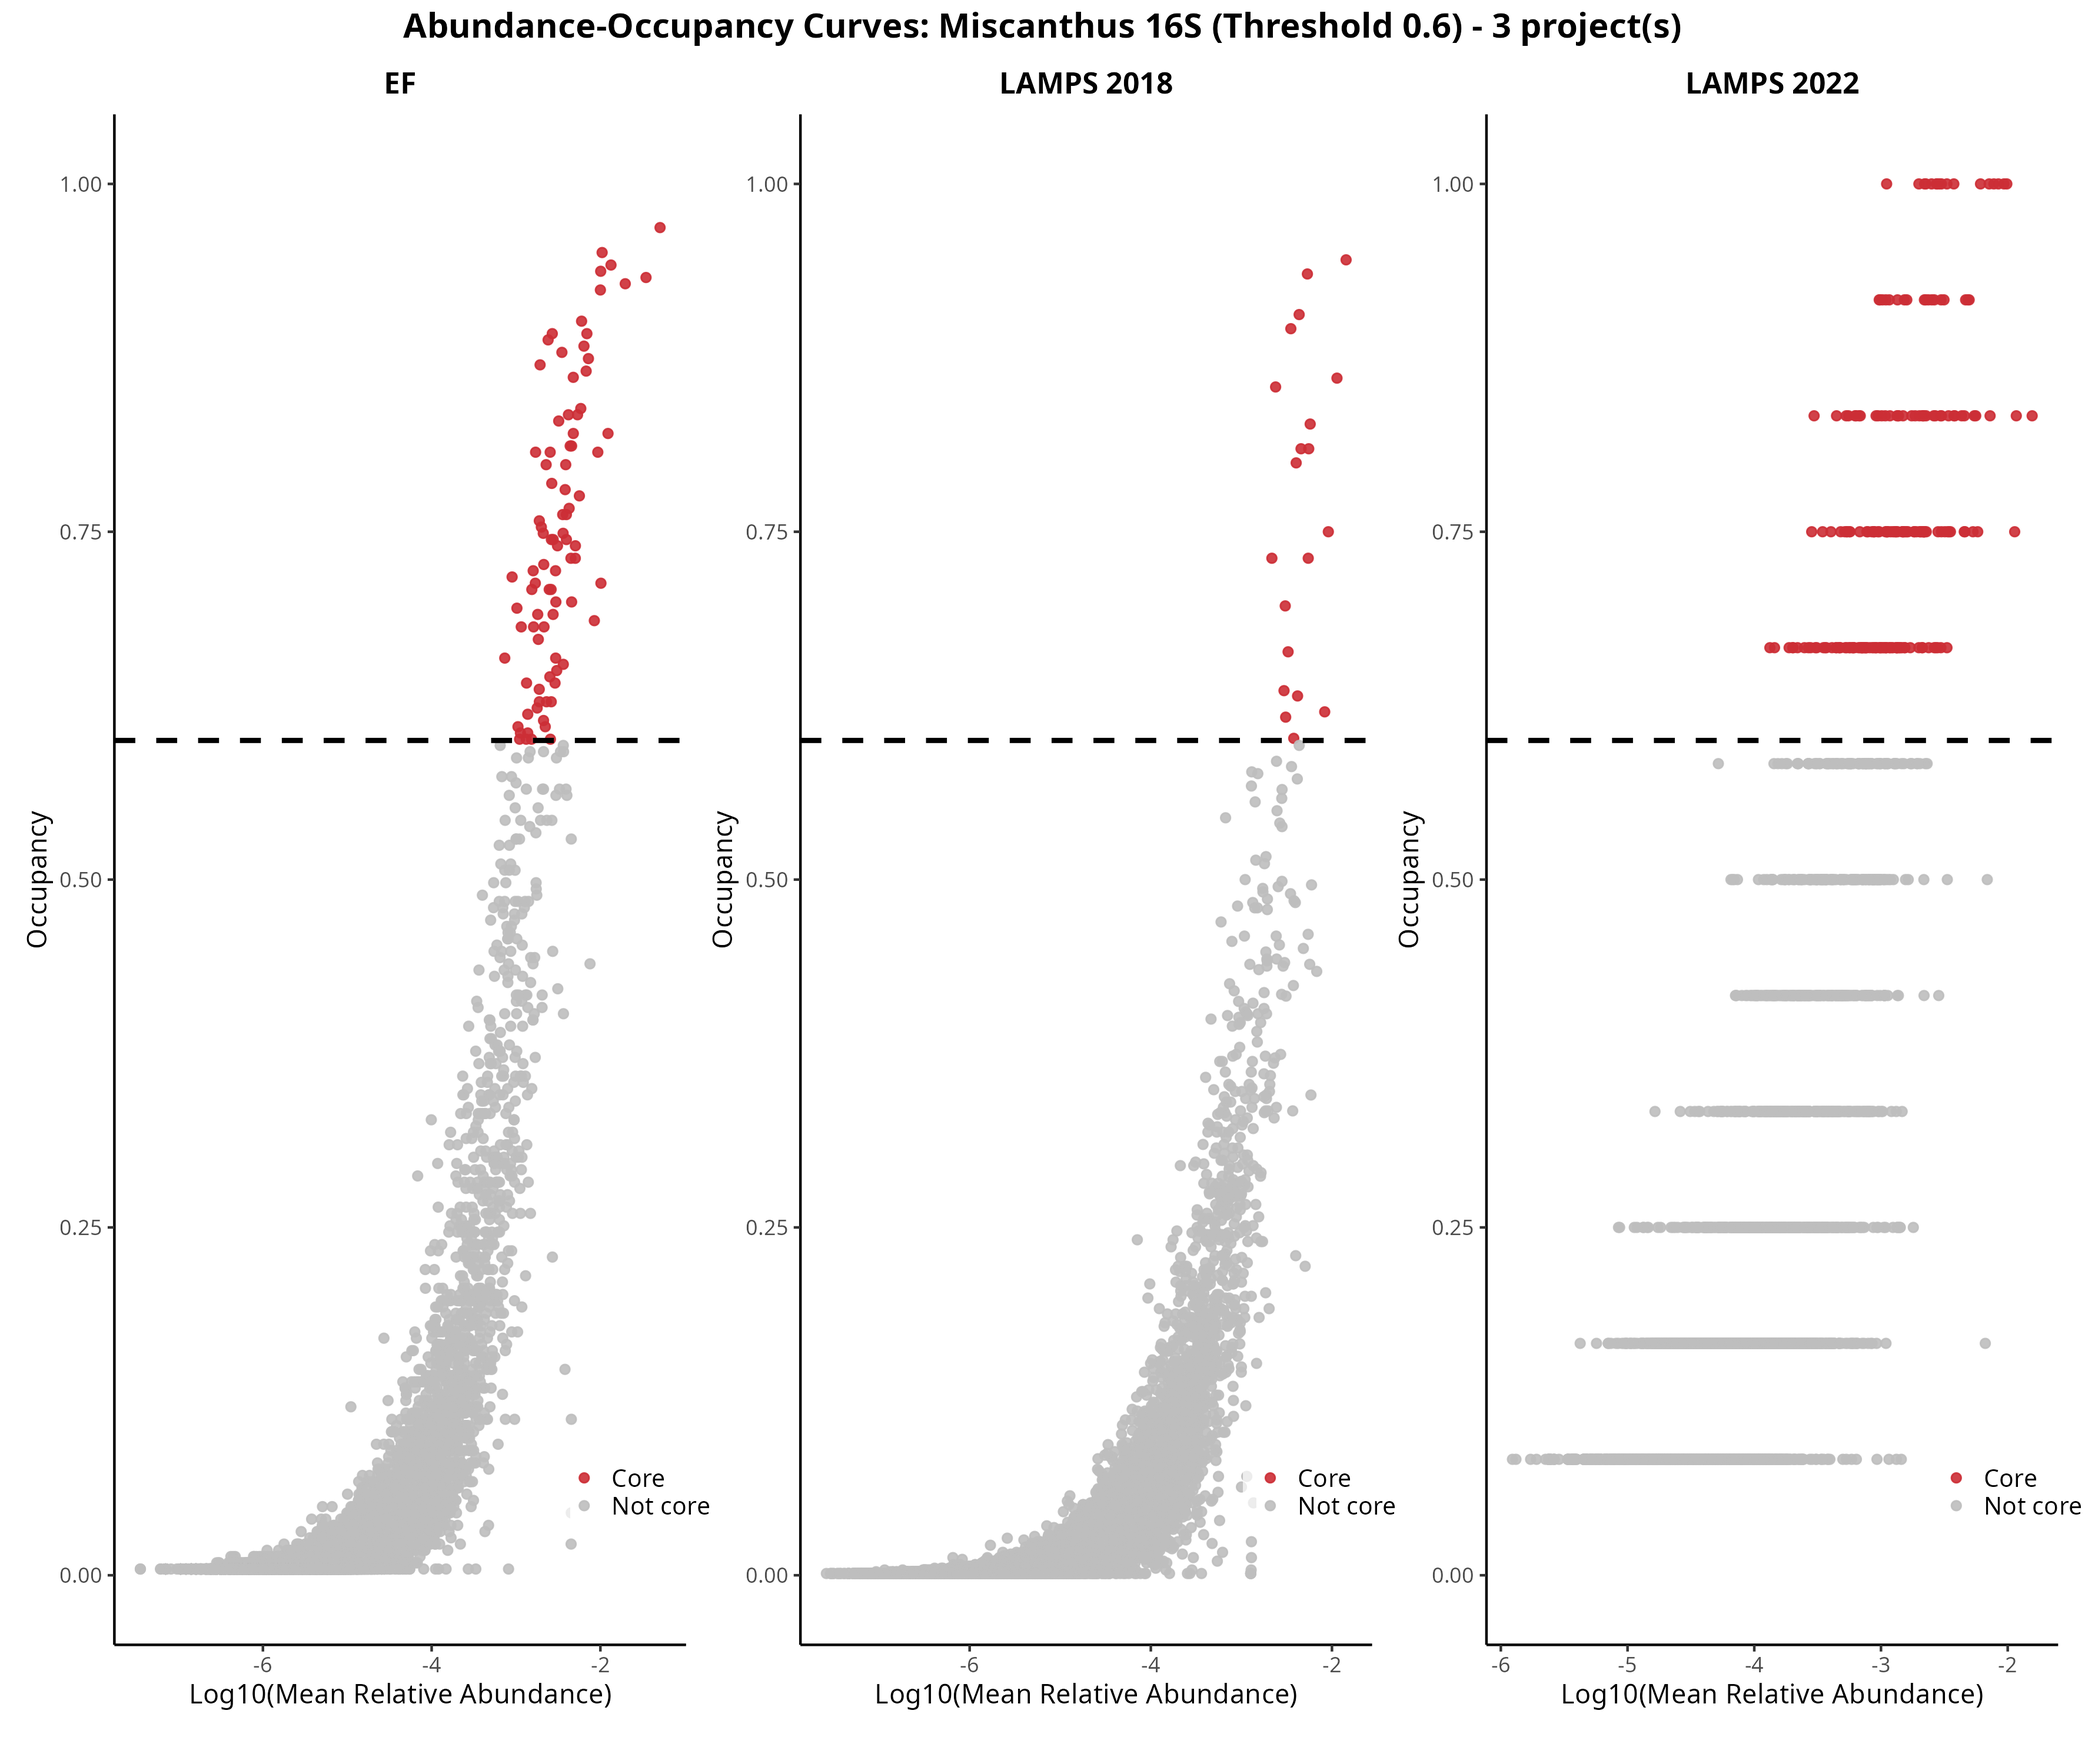
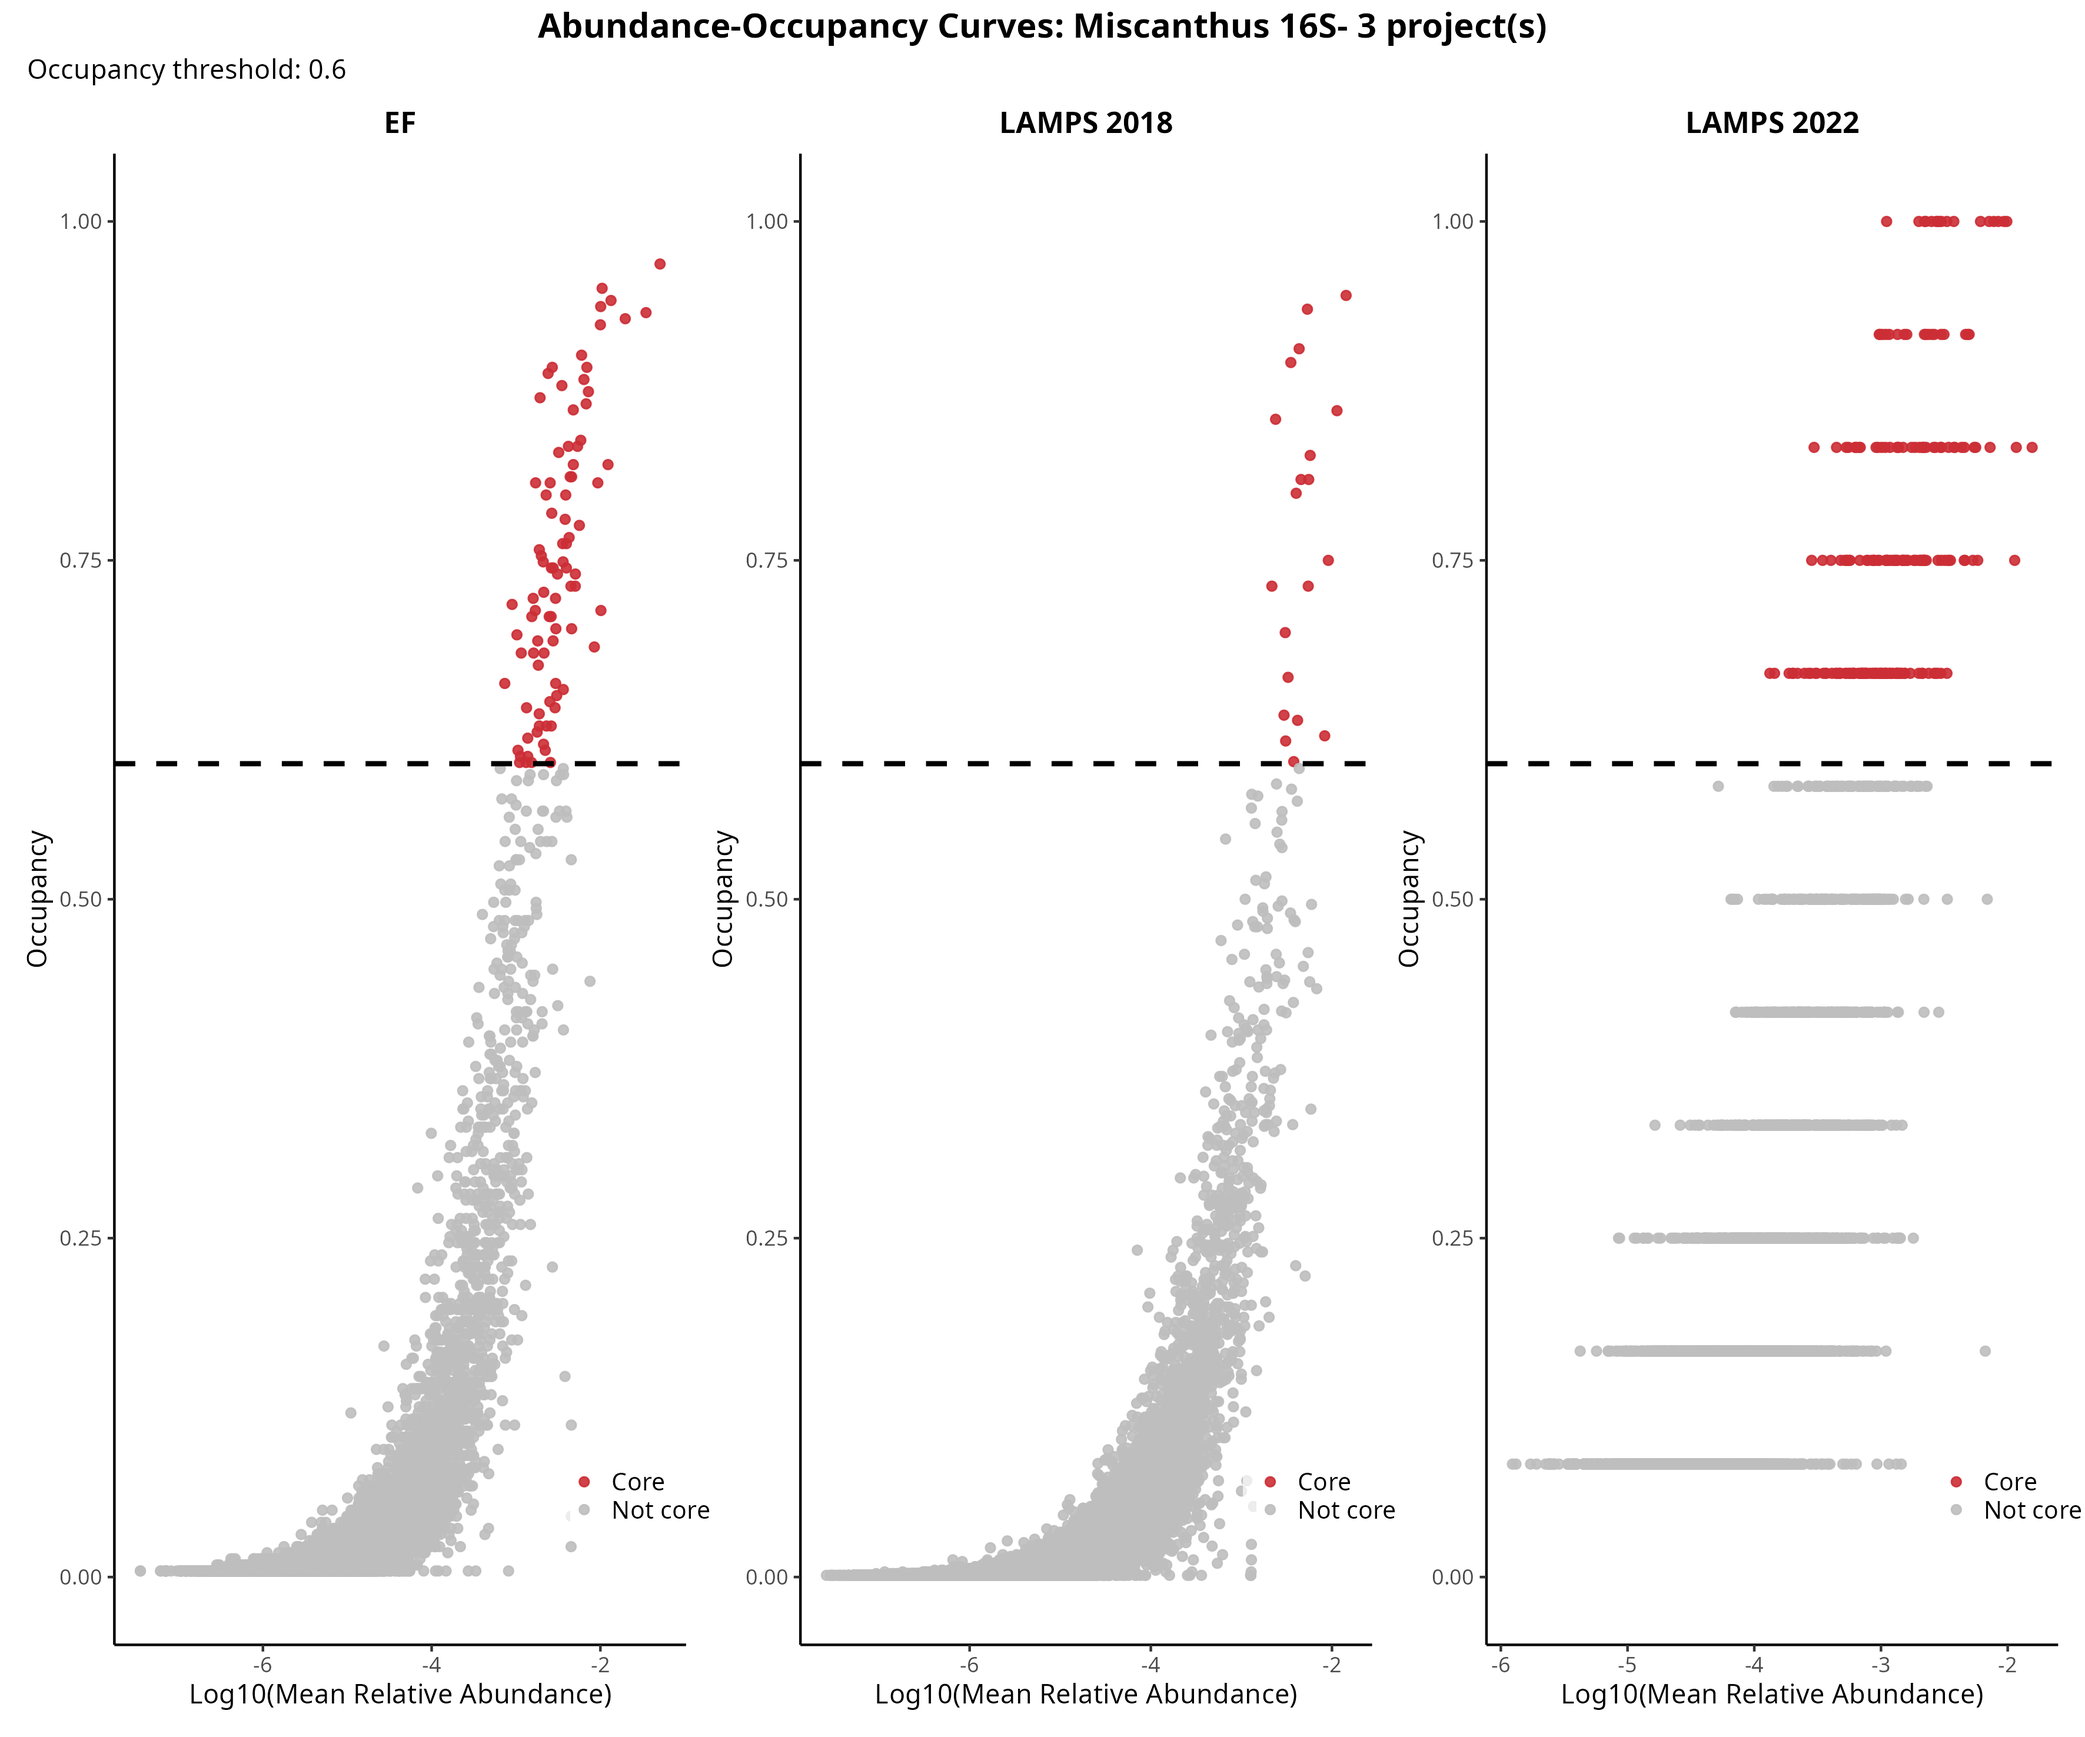
Add temporal and spatial abundance-occupancy analysis for Miscanthus microbiomes
Add Section 2 to analyze abundance-occupancy patterns by time and location across projects. Implement subset helper function to filter phyloseq objects by metadata variables. Generate multi-panel plots for EF by timing, LAMPS 2018 by year, and LAMPS 2022 by site. Add display functionality for overall and Miscanthus-specific plots. Update plot titles with subtitles for occupancy thresholds. Fix variable reference in upset plots script and update documentation for storage migration from Box to Google Drive.

diff --git a/data/input/README.md b/data/input/README.md
@@ -11,6 +11,8 @@ LOCAL_BASE="/home/baponte/gdrive_local/post_doc/DOE-CABBI/bolivar/germs_miscanth
 
 ## Summary
 
+***This was originally copied from the GERMS lab Box. Since then Iowa State has ditched Box unlimited storage thus GERMS lab moxed to Google Drive. It should hold the same directory structure***. -BAR 2026-27-02
+
 | Dataset | Origin (Box) | Destination (local) |
 |------------------------|------------------------|------------------------|
 | LAMPS — RNA amplicon sequencing | Box:GERMS-DATAMAN/DOE-CABBI/LAMPS/RNA\\ amplicon\\ sequencing/ | /home/baponte/gdrive_local/post_doc/DOE-CABBI/bolivar/germs_miscanthus/data/input/LAMPS/RNA_amplicon_sequencing/ |
@@ -18,7 +20,13 @@ LOCAL_BASE="/home/baponte/gdrive_local/post_doc/DOE-CABBI/bolivar/germs_miscanth
 | Energy Farm Collab — 16S | Box:GERMS-DATAMAN/DOE-CABBI/Energy Farm Collab/R/files_for_phyloseq_16S/ | /home/baponte/gdrive_local/post_doc/DOE-CABBI/bolivar/germs_miscanthus/data/input/energy_farm_collab/files_for_phyloseq_16S/ |
 | Energy Farm Collab — AMF | Box:GERMS-DATAMAN/DOE-CABBI/Energy Farm Collab/R/files_for_phyloseq_AMF/ | /home/baponte/gdrive_local/post_doc/DOE-CABBI/bolivar/germs_miscanthus/data/input/energy_farm_collab/files_for_phyloseq_AMF/ |
 
-Notes: - Corrected destination typos for clarity and consistency: - LAMPS DNA destination: added missing slash and fixed spelling to `.../LAMPS/DNA_amplicon_sequencing/` (was `LAMPSDNA_amplicon_sequnencing`). - Energy Farm AMF destination: fixed to `.../files_for_phyloseq_AMF/` (was `files_for_phylose_AMF`).
+**Notes:**
+
+-   Corrected destination typos for clarity and consistency:
+
+-   LAMPS DNA destination: added missing slash and fixed spelling to `.../LAMPS/DNA_amplicon_sequencing/` (was `LAMPSDNA_amplicon_sequnencing`).
+
+-   Energy Farm AMF destination: fixed to `.../files_for_phyloseq_AMF/` (was `files_for_phylose_AMF`).
 
 ## Details and `rclone` commands
 

diff --git a/data/input/LAMPS/README.md b/data/input/LAMPS/README.md
@@ -28,13 +28,13 @@ This applies to DNA (DNA amplicon sequencing) and RNA (RNA amplicon sequencing)s
 
 ```{r}
 its_seq_names <- fs::dir_ls(
-  "/home/baponte/cybox/GERMS-DATAMAN/DOE-CABBI/LAMPS/DNA\ amplicon\ sequencing/Raw sequences"
+  "/home/baponte/gdrive/GERMS-DATAMAN/DOE-CABBI/LAMPS/DNA\ amplicon\ sequencing/Raw sequences"
 ) %>% # rclone Box config, this may break
   basename() 
 
 write_tsv(
   as.data.frame(its_seq_names),
-file = "/home/baponte/cybox/GERMS-DATAMAN/DOE-CABBI/LAMPS/DNA\ amplicon\ sequencing/dna_seq_filenames.tsv", col_names = FALSE
+file = "/home/baponte/gdrive/GERMS-DATAMAN/DOE-CABBI/LAMPS/DNA\ amplicon\ sequencing/dna_seq_filenames.tsv", col_names = FALSE
 )
 ```
 
@@ -105,11 +105,11 @@ The standardization process in "01_import.R" conditionally transforms only the i
 
 ## Reproducibility notes
 
-- Keep the two source files versioned (CSV) or archived (Excel from Box).
+- Keep the two source files versioned (CSV) or archived (Excel from Google Drive).
 - Record any column renames made during import so the join remains stable if schemas change.
 
 
-# LAMPS 2023 (AKA LAMPS_EPS)
+# LAMPS 202 (AKA LAMPS_EPS)
 
 ## Sequence and Metadata provenance
 
@@ -119,5 +119,5 @@ The standardization process in "01_import.R" conditionally transforms only the i
       - AMF: "GERMS-DATAMAN/Argonne_Sequencing_Results/Feb2025_AMF"
   - .RData (phyloseq objects): "GERMS-DATAMAN/DOE-CABBI/Phillip/LAMPS_EPS/data/"
 
-  **Now in "~germs_miscanthus/data/input/LAMPS/2023/data". This is now categorized by sampling year.**
+  **Now in "~germs_miscanthus/data/input/LAMPS/2022/data". This is now categorized by sampling year.**
 
